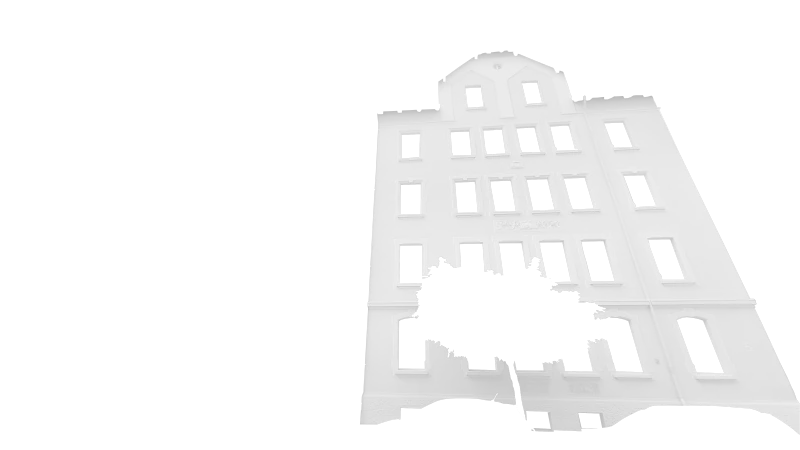
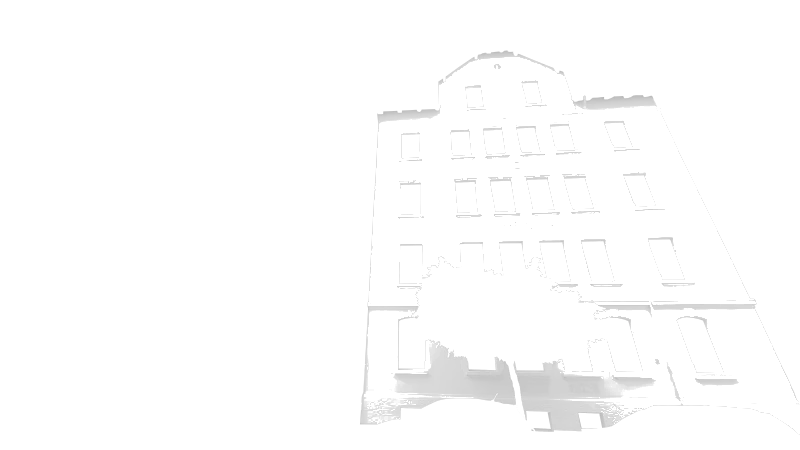
shadows readded

diff --git a/index.html b/index.html
@@ -122,7 +122,7 @@
 			<rect id="streetwindowcolor" x="0" y="0" width="800" height="450" fill="red"
 				mask="url(#streetwindowmask)" />
 			<rect id="streetwallcolor" x="0" y="0" width="800" height="450" fill="green" mask="url(#streetwallmask)" />
-			<!-- <image href="StreetShadows.webp" width="800" height="450" /> -->
+			<image href="StreetShadows.webp" width="800" height="450" />
 			<image href="StreetTree.webp" width="800" height="450" />
 		</svg>
 	</p>
@@ -140,7 +140,7 @@
 			<rect id="gardenwindowcolor" x="0" y="0" width="450" height="800" fill="red"
 				mask="url(#gardenwindowmask)" />
 			<rect id="gardenwallcolor" x="0" y="0" width="450" height="800" fill="green" mask="url(#gardenwallmask)" />
-			<!-- <image href="GardenShadows.webp" width="450" height="800" /> -->
+			<image href="GardenShadows.webp" width="450" height="800" />
 			<image href="GardenBushes.webp" width="450" height="800" />
 		</svg>
 	</p>